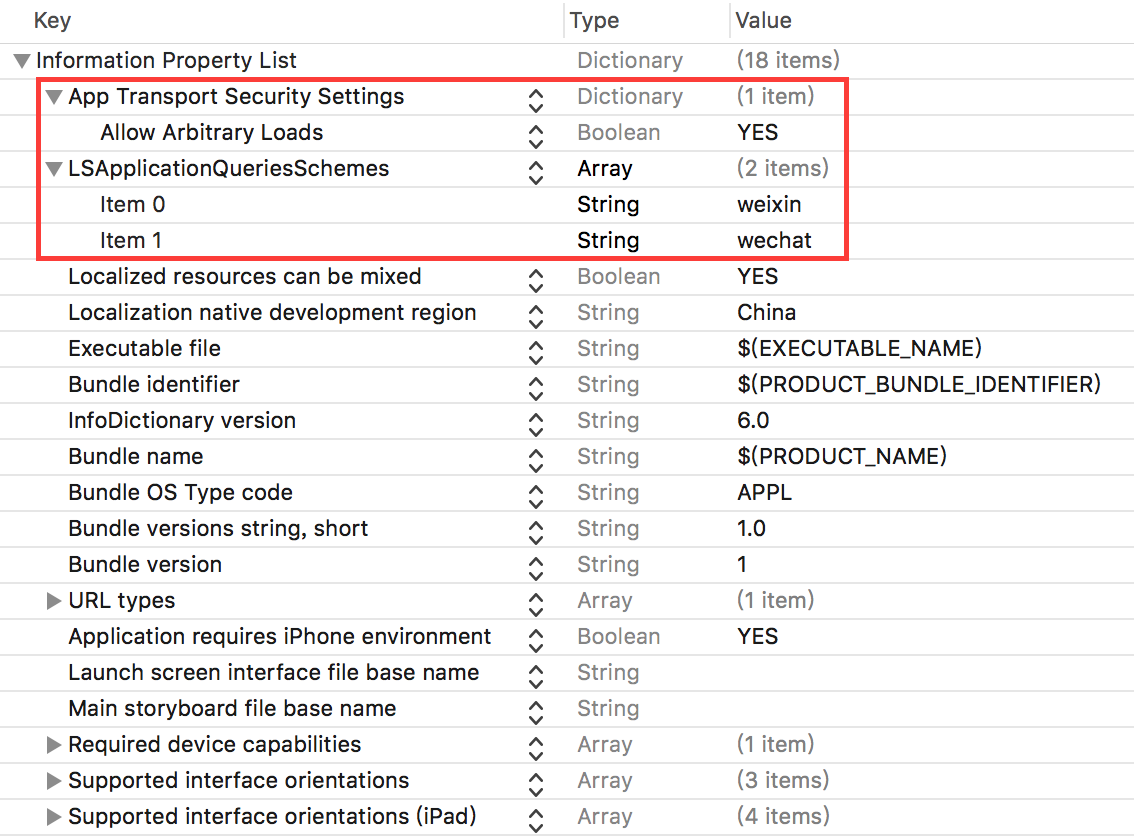
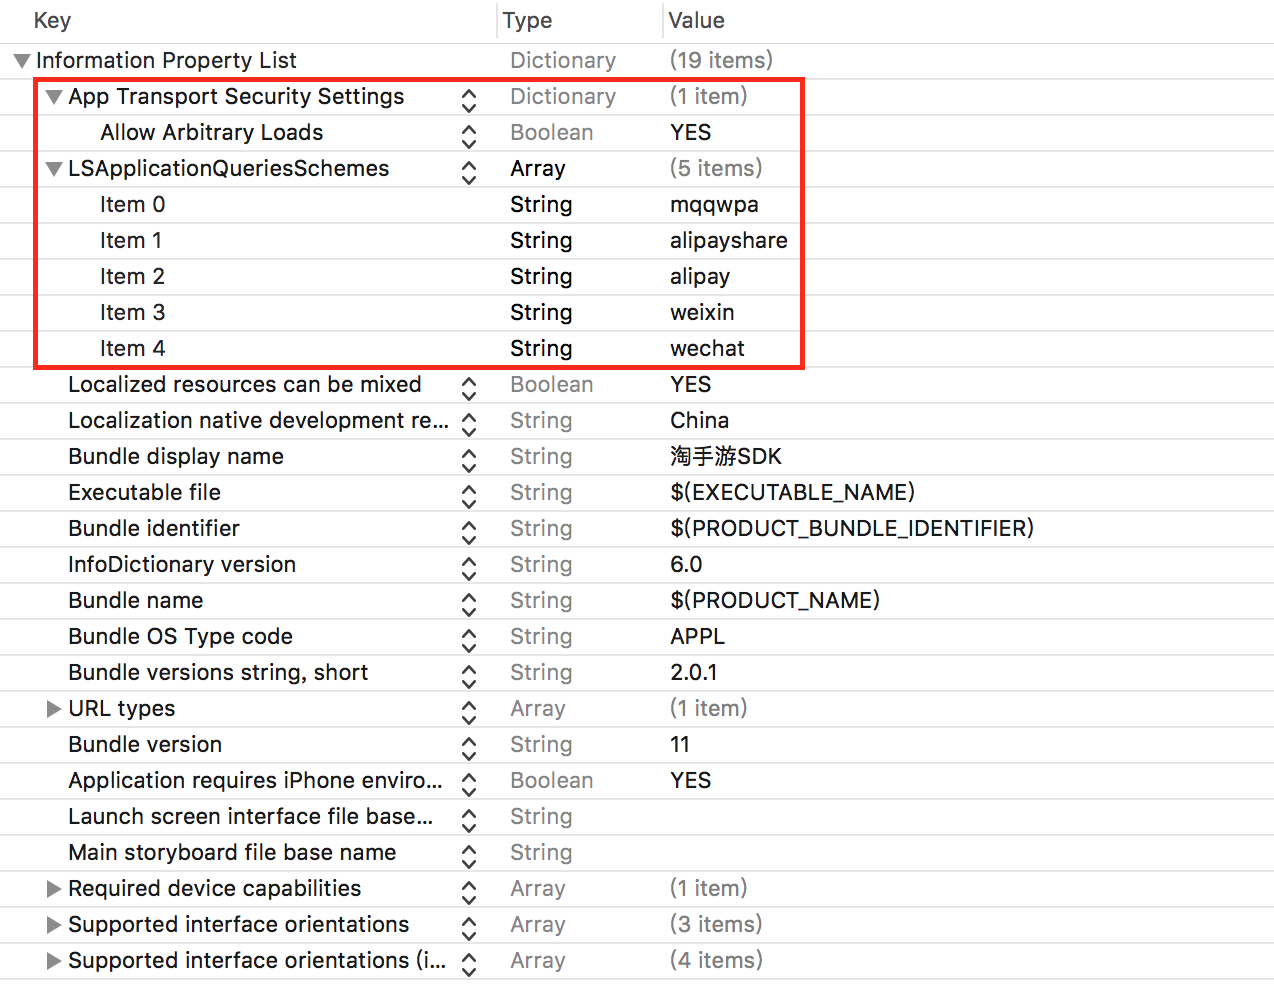
更新文档。

Changed region(s): [[0.0, 0.0, 1.0, 1.0], [0.6481, 0.0, 0.7099, 0.031]]

diff --git a/README.md b/README.md
@@ -49,6 +49,7 @@ pod install
 <array>
 	<string>weixin</string>
 	<string>wechat</string>
+	<string>mqqwpa</string>
 </array>
 ```
 
@@ -142,15 +143,17 @@ TSYSDKManager *mgr = [TSYSDKManager sharedManager];
 // 设置登录代理
 mgr.loginDelegate = self;
 // 调用打开登录控制器接口
-[mgr openLoginController];
+[mgr loginWithJSONInfo:@""];
 ```
 
 关于登录接口说明：
 ```
 /**
- 打开登录界面
+ 登录（成功或失败都会调用 TSYSDKLoginDelegate 中的代理方法）
+ 
+ @param jsonInfo 登录相关的 JSON 字符串（保留参数，目前可传空字符串(@"")）
  */
-- (void)openLoginController;
+- (void)loginWithJSONInfo:(NSString *)jsonInfo;
 ```
 
 ### 3. 进入游戏接口的使用
@@ -221,11 +224,11 @@ mgr.enterGameDelegate = self;
 关于进入游戏接口说明：
 ```
 /**
- 进入游戏
+ 进入游戏（成功或失败都会调用 TSYSDKEnterGameDelegate 中的代理方法）
  
- @param userInfo 包含用户和游戏角色信息的 JSON 字符串（保留参数，目前可传空字符串(@"")）
+ @param jsonInfo 包含用户和游戏角色信息的 JSON 字符串（保留参数，目前可传空字符串(@"")）
  */
-- (void)enterGameWithUserInfo:(NSString *)userInfo;
+- (void)enterGameWithJSONInfo:(NSString *)jsonInfo;
 ```
 
 ### 4. 支付接口的使用
@@ -307,7 +310,7 @@ mgr.payDelegate = self;
 关于支付接口说明：
 ```
 /**
- 支付
+ 支付（成功或失败都会调用 TSYSDKPayDelegate 中的代理方法）
  
  @param servicearea_id 区服
  @param goods_price    单价
@@ -343,9 +346,11 @@ typedef NS_ENUM(NSUInteger, TSYSDKSwitchAccountStatus) {
  
  @param manager TSYSDKManager
  @param status  切换账号的状态码
+ @param resultDict 切换账号相关信息
  */
 - (void)  tsySDKManager:(TSYSDKManager *)manager
-switchAccountWithStatus:(TSYSDKSwitchAccountStatus)status;
+switchAccountWithStatus:(TSYSDKSwitchAccountStatus)status
+             resultDict:(NSDictionary *)resultDict;
 ```
 
 然后调用切换账号接口：
@@ -360,9 +365,63 @@ mgr.switchAccountDelegate = self;
 关于切换账号接口说明：
 ```
 /**
- 切换账号（退出账号）
+ 切换账号（即用户退出账号，成功或失败都会调用 TSYSDKSwitchAccountDelegate 中的代理方法）
  */
 - (void)switchAccount;
+```
+
+### 6. 处理用户退游返现
+处理用户退游返现，需要先遵守`TSYSDKCashBackDelegate`，并实现其中的代理方法：
+```
+/**
+ 处理用户退游返现的状态
+
+ - TSYSDKCashBackHandleStatusBegin: 开始处理
+ - TSYSDKCashBackHandleStatusEnd: 完成处理
+ */
+typedef NS_ENUM(NSUInteger, TSYSDKCashBackHandleStatus) {
+    TSYSDKCashBackHandleStatusBegin = 0,
+    TSYSDKCashBackHandleStatusEnd = 1
+};
+
+/**
+ 退游返现成功，会回调此代理方法
+
+ @param manager TSYSDKManager
+ */
+- (void)tsySDKManager:(TSYSDKManager *)manager
+      cashBackHandler:(void (^)(TSYSDKCashBackHandleStatus))handler;
+```
+
+示例如下：
+```
+#pragma mark - Life cycle
+
+- (void)viewDidLoad
+{
+    [super viewDidLoad];
+    // Do any additional setup after loading the view.
+    self.view.backgroundColor = [UIColor whiteColor];
+    self.navigationItem.title = @"游戏界面";
+    
+    /* 在 - (void)viewDidLoad 中设置用户退游返现成功的代理 */
+    [TSYSDKManager sharedManager].cashBackDelegate = self;
+}
+
+#pragma mark -
+#pragma mark 用户退游返现成功后会调用此代理方法，在这里提示用户已经退游，同时结束用户正在玩的游戏
+- (void)tsySDKManager:(TSYSDKManager *)manager cashBackHandler:(void (^)(TSYSDKCashBackHandleStatus))handler
+{
+    /* 开始处理之前调用回调Block */
+    handler(TSYSDKCashBackHandleStatusBegin);
+    [DVVAlertView showAlertWithTitle:@"您的账号已经退游返现成功，不能继续玩了哦！" message:nil firstButtonTitle:@"好的" otherButtonTitles:nil completion:^(NSUInteger idx) {
+        /* 处理完成之后调用回调Block */
+        handler(TSYSDKCashBackHandleStatusEnd);
+        
+        /* 结束用户当前正在玩的游戏 */
+        [self.navigationController popToRootViewControllerAnimated:YES];
+    }];
+}
 ```
 
 **至此，您已成功接入iOS端淘手游SDK。**
